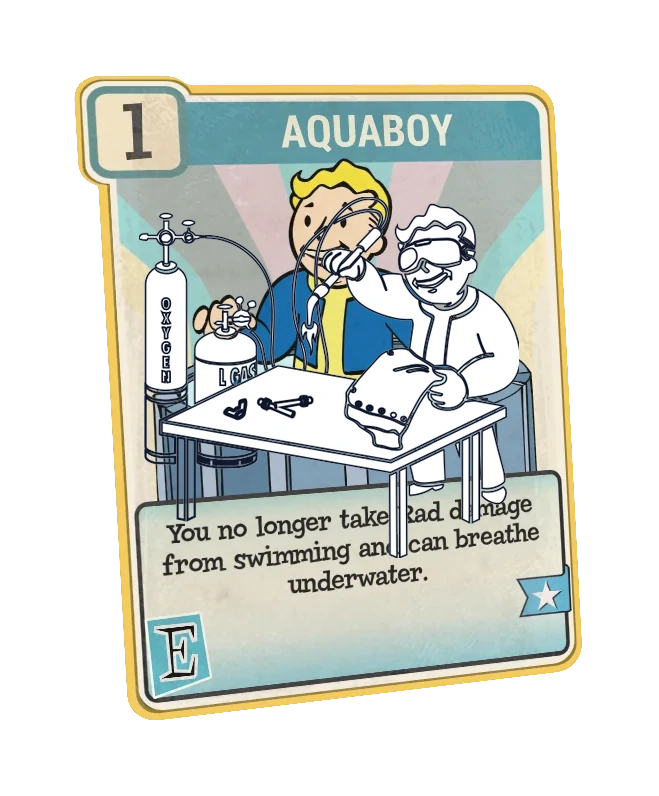
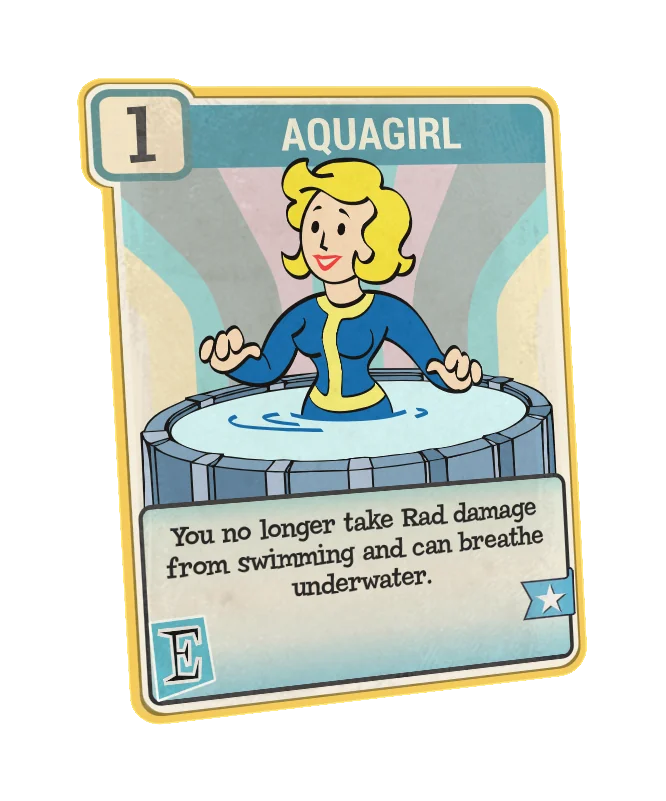
fix(perks): replace altered Vault Girl perk card WebPs with clean authentic official Fallout 76 assets and improve search indexing

Changed region(s): [[0.091, 0.0905, 0.8801, 0.9045], [0.3338, 0.3015, 0.3945, 0.3317]]

diff --git a/src/lib/perks/catalog.ts b/src/lib/perks/catalog.ts
@@ -69,18 +69,22 @@ export function getPerkCardById(id: string): PerkCard | undefined {
   });
 }
 
+export function getGenderedPerkName(name: string, isFemale = false): string {
+  if (!isFemale || !name) return name;
+  const lower = name.toLowerCase().trim();
+  if (lower === "action boy" || lower === "action-boy" || lower === "actionboy") return "Action Girl";
+  if (lower === "aquaboy" || lower === "aqua-boy" || lower === "aquaboy-aquagirl") return "Aquagirl";
+  if (lower === "party boy" || lower === "party-boy" || lower === "partyboy") return "Party Girl";
+  return name;
+}
+
 export function searchPerkCards(query: string, rank?: number): PerkCard[] {
-  let norm = query.toLowerCase().trim();
+  const norm = query.toLowerCase().trim();
   if (!norm) return PERK_CATALOG;
 
-  // Resolve female variant query aliases to find parent perk cards
-  if (norm.includes("action girl") || norm === "actiongirl" || norm === "action-girl") norm = "action boy";
-  else if (norm.includes("aquagirl") || norm === "aqua girl" || norm === "aqua-girl") norm = "aquaboy";
-  else if (norm.includes("party girl") || norm === "partygirl" || norm === "party-girl") norm = "party boy";
-  else if (norm.includes("black widow") || norm === "blackwidow" || norm === "black-widow") norm = "lady killer";
-
   return PERK_CATALOG.filter((card) => {
-    const matchName = card.name.toLowerCase().includes(norm);
+    const femaleName = getGenderedPerkName(card.name, true).toLowerCase();
+    const matchName = card.name.toLowerCase().includes(norm) || femaleName.includes(norm);
     const matchId = card.id.toLowerCase().includes(norm);
     const matchSpecial = card.special.toLowerCase() === norm;
     const matchRank = rank ? card.ranks.some((r) => r.rank === rank) : true;

diff --git a/src/lib/perks/perk-artwork.ts b/src/lib/perks/perk-artwork.ts
@@ -22,10 +22,9 @@ export function getPerkCardArtworkUrl(cardId: string, special: SpecialCategory, 
 
   // Female Vault Girl Card Variant Swapping
   if (isFemale) {
-    if (raw === "action-boy" || raw === "action boy" || raw === "actionboy") raw = "action-girl";
-    else if (raw === "party-boy" || raw === "party boy" || raw === "partyboy") raw = "party-girl";
-    else if (raw === "lady-killer" || raw === "lady killer" || raw === "ladykiller") raw = "black-widow";
-    else if (raw === "aquaboy" || raw === "aqua-boy" || raw === "aquaboy-aquagirl" || raw === "aquaticconcealment") raw = "aquagirl";
+    if (raw === "action-boy" || raw === "action boy" || raw === "actionboy" || raw === "action-girl" || raw === "action girl" || raw === "actiongirl") raw = "action-girl";
+    else if (raw === "party-boy" || raw === "party boy" || raw === "partyboy" || raw === "party-girl" || raw === "party girl" || raw === "partygirl") raw = "party-girl";
+    else if (raw === "aquaboy" || raw === "aqua-boy" || raw === "aquaboy-aquagirl" || raw === "aquaticconcealment" || raw === "aquagirl" || raw === "aqua-girl") raw = "aquagirl";
   }
 
   const kebab = raw.replace(/\s+/g, "-").replace(/[^a-z0-9-]/g, "");
